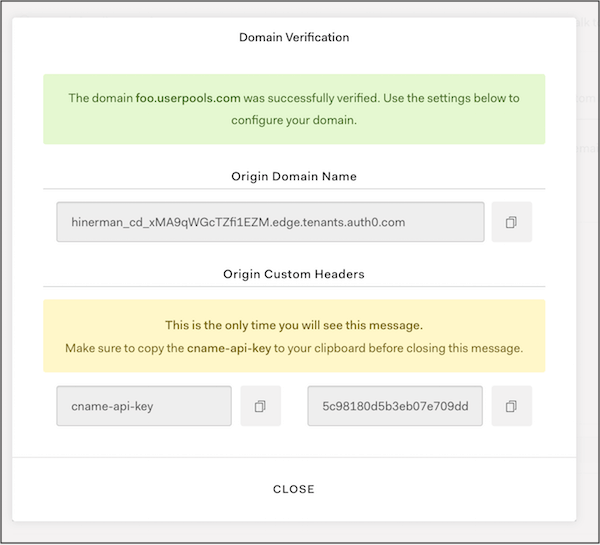
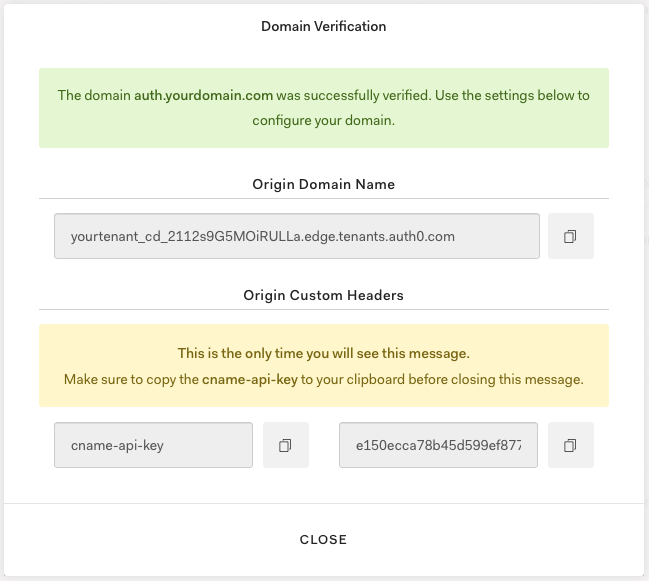
Updates based on testing

diff --git a/articles/custom-domains/index.md b/articles/custom-domains/index.md
@@ -3,9 +3,15 @@ title: Custom Domains
 description: How to map custom domains
 toc: true
 ---
-# Custom Domains
+# Custom Domains (Beta)
 
-Auth0 allows you to map your the domain for your tenant to a custom domain of your choosing. This allows you maintain a consistent experience for your users by keeping them on your domain instead of redirecting or using Auth0's domain. For example, if your Auth0 domain is `northwind.auth0.com`, you can have your users to see, use, and remain on `login.northwind.com`.
+Auth0 allows you to map the domain for your tenant to a custom domain of your choosing. This allows you maintain a consistent experience for your users by keeping them on your domain instead of redirecting or using Auth0's domain. For example, if your Auth0 domain is `northwind.auth0.com`, you can have your users to see, use, and remain on `login.northwind.com`.
+
+Using custom domains with centralized login is the most seamless and secure experience for developers and end users. For more information about centralized login and customizing the hosted login pages, refer to [our documentation](https://auth0.com/docs/hosted-pages/login).
+
+::: warning
+Custom Domains is a beta feature.
+:::
 
 ## Prerequisites
 
@@ -15,21 +21,19 @@ You'll need to register and own the domain name to which you're mapping your Aut
 
 Currently, the following Auth0 features and flows support use of custom domains:
 
-* OAuth 2.0/OIDC-Compliant Flows (all of which make calls to the [`/authorize` endpoint](/api/authentication#authorize-client))
+* OAuth 2.0/OIDC-Compliant Flows (using the [`/authorize`](/api/authentication#authorize-client) and [`/oauth/token`](https://auth0.com/docs/api/authentication#get-token) endpoints)
 * Guardian (Version 1.3.3 or later)
-* Emails -- the links included in the emails will use your custom domain
+* Emails (the links included in the emails will use your custom domain)
 
-## Certificates
+::: note
+If you obtain an access token for APIv2 using an authorization flow with your custom domain, then you must call APIv2 using the custom domain. Otherwise, the token will not be considered valid.
+:::
 
-You can manage the certificates for your custom domains, or you can have Auth0 manage them on your behalf.
+## Certificate Management
 
-If you opt to manage your own certificates, you'll need to use a reverse proxy that you configure using AWS CloudFront or Microsoft Azure.
+Auth0 offers two options for certificate management: You can manage the certificates for your custom domains yourself, or you can have Auth0 manage them on your behalf.
 
 ### Auth0-Managed Certificates
-
-::: warning
-Auth0-Managed Certificates is a beta feature.
-:::
 
 Auth0 will manage the creation and renewal of the certificates for your custom domain. This is the simplest custom domains deployment option.
 
@@ -37,13 +41,20 @@ Auth0 will manage the creation and renewal of the certificates for your custom d
 
 You are responsible for managing your SSL/TLS certificates and configuring a reverse proxy to handle SSL termination and the forwarding of requests to Auth0. Choose this option if you wish to have more control of your certificates (such as choosing your own CA or certificate expiration), or if you want to have more monitoring over your API calls to Auth0.
 
+If you opt to manage your own certificates, you'll need to use a reverse proxy that you configure using AWS CloudFront.
+
+::: note
+Self-Managed Certificates is only available for enterprise customers.
+:::
+
 ## How to Configure Custom Domains
 
 Setting up your custom domain requires you to do the following steps:
 
-1. Provide your domain name to Auth0 and verify ownership
+1. Provide your domain name to Auth0
+1. Verify ownership
 1. Configure the reverse proxy (if using self-managed certificates)
-1. Configure the hosted login page
+1. *Optional*: Configure the hosted login page
 1. *Optional*: Enable custom domains in Auth0 emails
 
 ### Step 1: Configure Auth0
@@ -54,7 +65,9 @@ Log in to the Dashboard and go to [Tenant Settings](${manage_url}/#/tenant). Cli
 
 Enter your custom domain in the provided box. Indicate whether you're using **Self-managed certificates** or **Auth0-managed certificates**. Click **Add Domain**.
 
-Before you can use this domain, you'll need to verify that you own your domain:
+### Step 2: Verify Ownership
+
+Before you can use this domain, you'll need to verify that you own your domain. The verification method depends on whether you are using Auth0-Managed or Self-Managed certificates:
 
 * **Auth0-Managed Certificates**: Add the CNAME verification record listed in the Dashboard to your domain's DNS record
 
@@ -65,6 +78,10 @@ Before you can use this domain, you'll need to verify that you own your domain:
 	![](/media/articles/custom-domains/self-managed.png)
 
 When you've done so, click **Verify** to proceed.
+
+::: note
+It may take a few minutes before Auth0 is able to verify your TXT or CNAME record, depending on your DNS settings.
+:::
 
 ::: panel TL;DR
 Here's how to add the TXT verification record to your domain's DNS record. The steps specified may vary by domain host provider, but generally speaking, you will need to:
@@ -81,25 +98,41 @@ Here's how to add the TXT verification record to your domain's DNS record. The s
 When done, save your record.
 :::
 
-If Auth0 was able to verify your domain name, you'll see the following pop-up window. Be sure to save the information provided, especially the `cname-api-key` value, since this is the **only** time you'll see this value.
+If Auth0 was able to verify your domain name, you'll see a pop-up window. Its contents will differ depending on whether you are using Auth0-Managed or Self-Managed certificates:
+
+* **Auth0-Managed Certificates**: This means the verification process is complete and within 1 to 2 minutes, your custom domain should be ready to use.
+
+![](/media/articles/custom-domains/domain-verification.png)
+
+* **Self-Managed Certificates**: Save the information provided in this pop-up, especially the `cname-api-key` value, since this is the **only** time you'll see this value.
 
 ![](/media/articles/custom-domains/api-key.png)
 
-::: note
+::: warning
 If you are unable to complete the verification process within three days, you'll need to start over.
 :::
 
+### Step 3: Configure the Reverse Proxy
 
+If you are using the Self-Managed Certificates option for your custom domain, you'll need to set up your reverse proxy.
 
-### Step 2: Configure the Reverse Proxy
+::: note
+This step is not necessary for those using Auth0-managed certificates.
+:::
 
-If you are using a self-managed certificate for your custom domains, you'll need to set up your reverse proxy (this step is not necessary for those using Auth0-managed certificates).
+Currently, you can use [AWS CloudFront](/custom-domains/set-up-cloudfront).
 
-Currently, you can use [AWS CloudFront](/custom-domains/set-up-cloudfront) or [Azure CDN](/custom-domains/set-up-azure-cdn)
+### Step 4: Configure the Hosted Login Page
 
-### Step 3: Configure the Hosted Login Page
+This is an **optional** step.
 
-If you're using a [Hosted Login Page](/hosted-pages/login), you'll need to update it to use your custom domain. The changes that you'll need to make are regarding the initializing of Lock. The following code sample shows the lines reflected the necessary changes.
+If you're using the Default Hosted Login Page, without customization, you will not need to make any changes - your custom domain will work right out of the box.
+
+If you're using a Custom [Hosted Login Page](/hosted-pages/login), you'll need to update it to use your custom domain. The changes that you'll need to make are regarding the initializing of Lock. The following code sample shows the lines reflected the necessary changes.
+
+::: note
+These same changes also apply to Embedded Lock.
+:::
 
 ```js
     var lock = new Auth0Lock(config.clientID, config.customDomain, {
@@ -113,7 +146,7 @@ If you're using a [Hosted Login Page](/hosted-pages/login), you'll need to updat
     });
 ```
 
-### Step 4: Enable Custom Domains in Auth0 Emails
+### Step 5: Enable Custom Domains in Auth0 Emails
 
 This is an **optional** step.
 
@@ -123,8 +156,9 @@ If you would like your custom domain used with your Auth0 emails, you'll need to
 
 1. **If I use a custom domain, will I still be able to use my `tenant.auth0.com` domain to access Auth0?**
 
-	You can use `tenant.auth0.com` for centralized login as long as you have *not* updated your hosted login page to support the custom domain.
+	You can use `tenant.auth0.com` for centralized login as long as you have *not* customized your hosted login page to support the custom domain. If you are using the default hosted login page, it will support both domains. For other flows, you can use both domains.
 
-1. **Can I use my CNAME to access back-end flows?**
+1. **What about support for SAML or WS-Fed clients?**
+  
+  We are planning support for additional features, including SAML and WS-Fed clients, in the future.
 
-	We only support the use of your `tenant.auth0.com` domain for back-end flows (such as `/oauth/token`).

diff --git a/articles/custom-domains/set-up-cloudfront.md b/articles/custom-domains/set-up-cloudfront.md
@@ -22,17 +22,18 @@ Under **Origin Settings**, here are the values you'll need to change:
 
 | Parameter | Value |
 | - | - |
-| Origin Domain Name | Provide the fully-qualified URL using the following format: `www.tenant.custom_domain_id.edge.tenants.auth0.com`. Be sure to replace the `tenant` (this is the name of your Auth0 account and is reflected in your domain name as `tenant.auth0.com`) and `custom_domain_id` placeholder values. |
+| Origin Domain Name | Provide the fully-qualified URL using the following format: `custom_domain_id.edge.tenants.auth0.com`. Be sure to use the `Origin Domain Name` value obtained from the Auth0 Dashboard during the Custom Domains setup process. |
 | Origin ID | A description for the origin. This value lets you distinguish between multiple origins in the same distribution and therefore must be unique. |
 | Origin Protocol Policy | Set to **HTTPS Only** |
+| Alternate Domain Names (CNAMEs) | Set to your custom domain name (the same one your configured in the Auth0 Dashboard) |
 
 ::: warning
 If your Auth0 tenants are **not** in a US region, you'll need to use the following as your **Origin Domain Name**:
 
-* EU: tenant.custom_domain_id.edge.tenants.eu.auth0.com
-* AU: tenant.custom_domain_id.edge.tenants.au.auth0.com
+* EU: custom_domain_id.edge.tenants.eu.auth0.com
+* AU: custom_domain_id.edge.tenants.au.auth0.com
 
-Be sure to replace the `tenant` placeholder value with the name of your tenant.
+Be sure to use the `Origin Domain Name` value obtained from the Auth0 Dashboard during the Custom Domains setup process.
 :::
 
 ![](/media/articles/custom-domains/aws/create-distribution.png)
@@ -59,10 +60,10 @@ Next, you'll configure the **Default Cache Behavior Settings**. Here are the val
 
 Scroll to the bottom of the page and click **Create Distribution**.
 
-You'll see your newly-created distribution in your CloudFront home page.
+You'll see your newly-created distribution in your CloudFront Distributions list. Note that the Status will reflect `In progress` until the distribution is Deployed.
 
 ![](/media/articles/custom-domains/aws/distributions.png)
 
-Finally, add a new CNAME record to your DNS for your custom domain pointing to the CloudFront Domain Name for your Distribution (for example, `e2zwy42nt1feu7.cloudfront.net`).
+Finally, add a new CNAME record to your DNS for your custom domain pointing to the CloudFront Domain Name for your Distribution. This can be found by clicking on your Distribution ID, under the General tab, Domain Name (for example, `e2zwy42nt1feu7.cloudfront.net`).
 
 Your CloudFront setup is now ready for use!

diff --git a/articles/custom-domains/set-up-azure-cdn.md b/articles/custom-domains/set-up-azure-cdn.md
@@ -39,15 +39,14 @@ Underneath the parameters mentioned above, you'll see an option to **create a ne
 | - | - |
 | CDN endpoint name | A descriptive name for the endpoint. We suggest using something similar to your custom domain (if not the domain itself) |
 | Origin type | Select **Custom origin** |
-| Origin hostname | Provide the fully-qualified URL using the following format: `www.tenant.custom_domain_id.edge.tenants.auth0.com`. Be sure to replace the `tenant` (this is the name of your Auth0 account and is reflected in your domain name as `tenant.auth0.com`) and `custom_domain_id` placeholder values. 
+| Origin hostname | Provide the fully-qualified URL using the following format: `custom_domain_id.edge.tenants.auth0.com`. Be sure to use the `Origin Domain Name` value obtained from the Auth0 Dashboard during the Custom Domains setup process. |
 
 ::: warning
 If your Auth0 tenants are **not** in a US region, you'll need to use the following as your **Origin hostname**:
 
-* EU: tenant.custom_domain_id.edge.tenants.eu.auth0.com
-* AU: tenant.custom_domain_id.edge.tenants.au.auth0.com
+* EU: custom_domain_id.edge.tenants.eu.auth0.com
+* AU: custom_domain_id.edge.tenants.au.auth0.com
 
-Be sure to replace the `tenant` placeholder value with the name of your tenant.
 :::
 
 ![](/media/articles/custom-domains/azure/cdn-profile-2.png)
